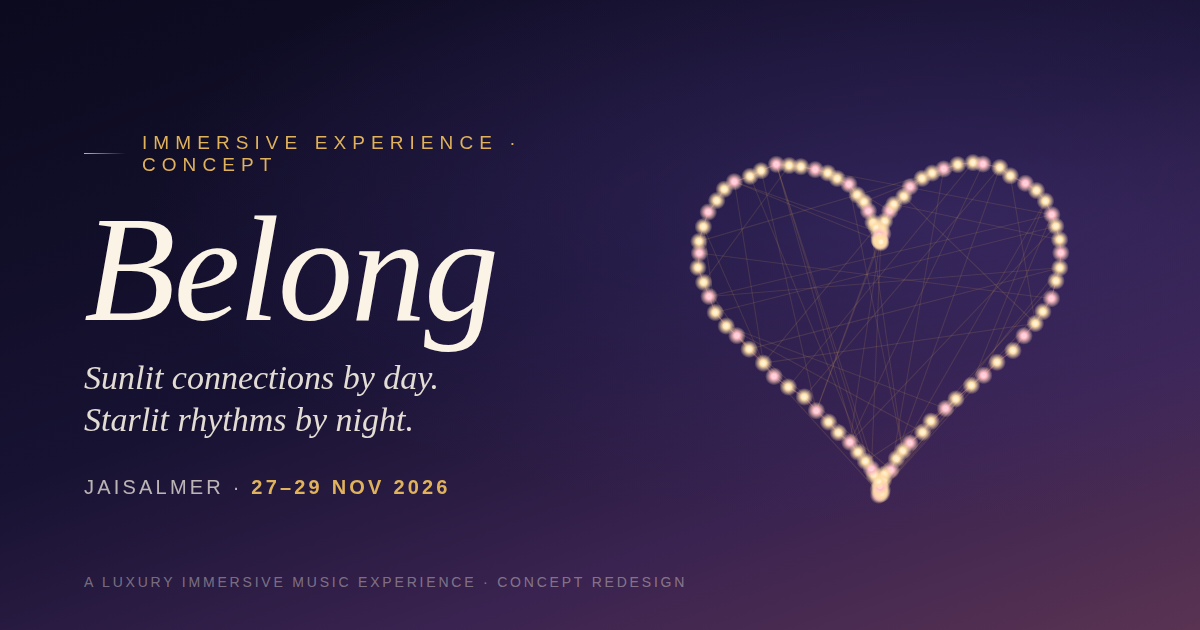
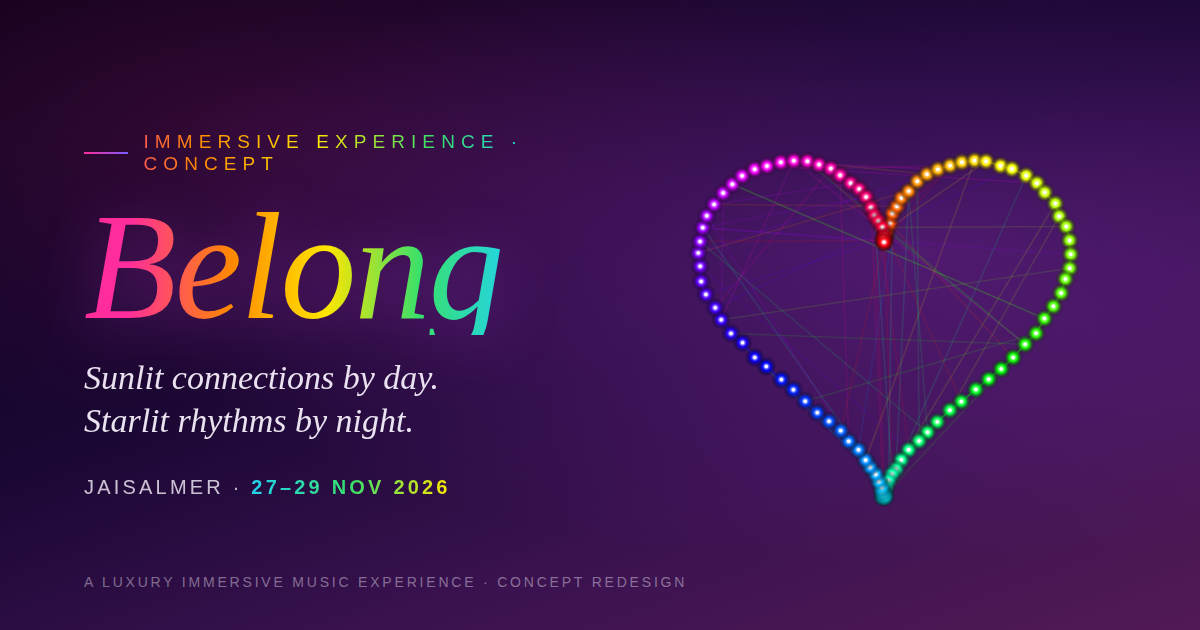
Make Rainbow the default mode and give it a matching social card
- First-time visitors now land in Rainbow (the boldest first impression);
  the palette is set before first paint so the loader matches, and the
  choice still persists per-visitor in localStorage
- theme-color defaults to the rainbow backdrop
- Regenerate the 1200x630 social share image (og.png) in the rainbow
  palette: a full-spectrum heart of souls and a rainbow "Belong" wordmark

Claude-Session: https://claude.ai/code/session_014zz6GeiYmQckbFMyAqYQUw

diff --git a/belong/og.html b/belong/og.html
@@ -8,24 +8,29 @@
   body{
     font-family:Georgia,'Times New Roman',serif;
     background:
-      radial-gradient(120% 90% at 78% 34%, rgba(70,50,120,.55), transparent 55%),
-      linear-gradient(160deg,#0b0a1e 0%,#171232 46%,#3a2350 74%,#5a3352 100%);
-    color:#faf3e6;position:relative;
+      radial-gradient(120% 90% at 76% 40%, rgba(120,40,160,.5), transparent 55%),
+      radial-gradient(90% 80% at 20% 20%, rgba(255,45,155,.14), transparent 60%),
+      linear-gradient(160deg,#0a0018 0%,#1a0733 44%,#3a1250 72%,#521a55 100%);
+    color:#fbf5ff;position:relative;
   }
   .wrap{position:absolute;inset:0;display:flex;align-items:center;padding:74px 84px}
-  .left{max-width:560px;z-index:2}
+  .left{max-width:580px;z-index:2}
   .kicker{font-family:'Jost',Arial,sans-serif;font-size:19px;letter-spacing:.32em;text-transform:uppercase;
-    color:#e0b25c;margin-bottom:26px;display:flex;align-items:center;gap:16px}
-  .kicker::before{content:"";width:44px;height:1px;background:linear-gradient(90deg,#e0b25c,transparent)}
-  .word{font-style:italic;font-weight:400;font-size:150px;line-height:.9;letter-spacing:-2px;color:#faf3e6}
-  .tag{font-size:34px;font-style:italic;color:rgba(250,243,230,.9);margin-top:20px;line-height:1.25}
+    margin-bottom:24px;display:flex;align-items:center;gap:16px;
+    background:linear-gradient(90deg,#ff2d9b,#ff8a00,#ffe600,#38e06b,#22d3ee,#7c5cff);
+    -webkit-background-clip:text;background-clip:text;color:transparent}
+  .kicker::before{content:"";width:44px;height:2px;background:linear-gradient(90deg,#ff2d9b,#7c5cff)}
+  .word{font-style:italic;font-weight:400;font-size:152px;line-height:.9;letter-spacing:-2px;
+    background:linear-gradient(92deg,#ff2d9b 8%,#ff8a00 26%,#ffe600 42%,#38e06b 58%,#22d3ee 74%,#7c5cff 92%);
+    -webkit-background-clip:text;background-clip:text;color:transparent;
+    filter:drop-shadow(0 6px 30px rgba(180,60,220,.4))}
+  .tag{font-size:34px;font-style:italic;color:rgba(251,245,255,.92);margin-top:22px;line-height:1.25}
   .meta{font-family:'Jost',Arial,sans-serif;font-size:20px;letter-spacing:.16em;text-transform:uppercase;
-    color:rgba(250,243,230,.72);margin-top:34px}
-  .meta b{color:#e0b25c;font-weight:600}
+    color:rgba(251,245,255,.78);margin-top:34px}
+  .meta b{background:linear-gradient(90deg,#22d3ee,#38e06b,#ffe600);-webkit-background-clip:text;background-clip:text;color:transparent;font-weight:700}
   .note{position:absolute;left:84px;bottom:40px;font-family:'Jost',Arial,sans-serif;font-size:14px;
-    letter-spacing:.2em;text-transform:uppercase;color:rgba(250,243,230,.4)}
+    letter-spacing:.2em;text-transform:uppercase;color:rgba(251,245,255,.42)}
   canvas{position:absolute;right:0;top:0;z-index:1}
-  ::selection{background:#e0b25c;color:#1a1508}
 </style>
 </head>
 <body>
@@ -41,28 +46,28 @@
   <div class="note">A luxury immersive music experience · concept redesign</div>
 <script>
   const ctx=document.getElementById('c').getContext('2d');
-  const cx=880, cy=300, s=11.4, N=96, pts=[];
-  for(let i=0;i<N;i++){
-    const t=i/N*Math.PI*2;
-    const hx=16*Math.pow(Math.sin(t),3);
-    const hy=13*Math.cos(t)-5*Math.cos(2*t)-2*Math.cos(3*t)-Math.cos(4*t);
-    pts.push([cx+hx*s+(Math.random()-.5)*4, cy-hy*s+(Math.random()-.5)*4]);
-  }
-  // connecting outline
-  ctx.strokeStyle='rgba(240,135,154,.38)'; ctx.lineWidth=1.1;
+  const cx=884, cy=300, s=11.6, N=104, pts=[];
+  function hsv(h){ h*=6; const i=Math.floor(h), f=h-i, v=255, p=0, q=Math.round(255*(1-f)), t=Math.round(255*f);
+    const r=[[v,t,p],[q,v,p],[p,v,t],[p,q,v],[t,p,v],[v,p,q]][i%6]; return 'rgb('+r[0]+','+r[1]+','+r[2]+')'; }
+  for(let i=0;i<N;i++){ const a=i/N*Math.PI*2;
+    const hx=16*Math.pow(Math.sin(a),3), hy=13*Math.cos(a)-5*Math.cos(2*a)-2*Math.cos(3*a)-Math.cos(4*a);
+    pts.push([cx+hx*s+(Math.random()-.5)*3, cy-hy*s+(Math.random()-.5)*3, i/N]); }
+  // rainbow outline
+  ctx.lineWidth=1.6;
   for(let i=0;i<N;i++){ const a=pts[i], b=pts[(i+1)%N];
+    ctx.strokeStyle=hsv(a[2]); ctx.globalAlpha=.55;
     ctx.beginPath(); ctx.moveTo(a[0],a[1]); ctx.lineTo(b[0],b[1]); ctx.stroke(); }
-  // a few soft interior threads
-  ctx.strokeStyle='rgba(224,178,92,.14)';
-  for(let k=0;k<60;k++){ const a=pts[(Math.random()*N)|0], b=pts[(Math.random()*N)|0];
-    ctx.beginPath(); ctx.moveTo(a[0],a[1]); ctx.lineTo(b[0],b[1]); ctx.stroke(); }
-  // glowing soul dots
-  for(let i=0;i<N;i++){ const [x,y]=pts[i];
-    const g=ctx.createRadialGradient(x,y,0,x,y,9);
-    const rose=i%3===0; g.addColorStop(0,'#fff'); g.addColorStop(.35, rose?'#ffb9c8':'#ffe0a8');
-    g.addColorStop(1,'rgba(255,220,170,0)');
-    ctx.fillStyle=g; ctx.beginPath(); ctx.arc(x,y,9,0,7); ctx.fill();
-    ctx.fillStyle=rose?'#ffd0da':'#fff3d6'; ctx.beginPath(); ctx.arc(x,y,1.8,0,7); ctx.fill(); }
+  // interior threads
+  ctx.globalAlpha=.12;
+  for(let k=0;k<70;k++){ const a=pts[(Math.random()*N)|0], b=pts[(Math.random()*N)|0];
+    ctx.strokeStyle=hsv(a[2]); ctx.beginPath(); ctx.moveTo(a[0],a[1]); ctx.lineTo(b[0],b[1]); ctx.stroke(); }
+  // glowing dots
+  ctx.globalAlpha=1;
+  for(let i=0;i<N;i++){ const [x,y,h]=pts[i], col=hsv(h);
+    const g=ctx.createRadialGradient(x,y,0,x,y,10);
+    g.addColorStop(0,'#fff'); g.addColorStop(.4,col); g.addColorStop(1,'rgba(0,0,0,0)');
+    ctx.fillStyle=g; ctx.beginPath(); ctx.arc(x,y,10,0,7); ctx.fill();
+    ctx.fillStyle='#fff'; ctx.beginPath(); ctx.arc(x,y,1.7,0,7); ctx.fill(); }
 </script>
 </body>
 </html>

diff --git a/belong/index.html b/belong/index.html
@@ -8,7 +8,7 @@
 <meta name="keywords" content="Belong Festival, immersive music festival, Jaisalmer festival, luxury desert festival, boutique music experience, wellness festival India, house music festival, immersive web experience" />
 <meta name="author" content="Concept redesign — João Caldas" />
 <meta name="robots" content="index, follow, max-image-preview:large" />
-<meta name="theme-color" content="#0b0a1e" />
+<meta name="theme-color" content="#0a0018" />
 <link rel="canonical" href="https://joaoccaldas.github.io/ai/belong/" />
 
 <!-- Open Graph -->
@@ -471,6 +471,14 @@
 </script>
 
 <script>
+/* Set the saved (or default) palette before first paint so the loader matches */
+(function(){
+  var m; try{ m=localStorage.getItem('belong-palette'); }catch(e){}
+  if(m==='playful'||m==='neon'||m==='prism') m='rainbow';
+  if(m!=='desert'&&m!=='aurora'&&m!=='rainbow') m='rainbow';   // Rainbow is the default
+  if(m==='rainbow') document.body.classList.add('rainbow');
+  else if(m==='aurora') document.body.classList.add('aurora');
+})();
 /* Resilient loader — reveals content even if the 3D module never loads */
 (function(){
   var loader=document.getElementById('loader'), bar=document.getElementById('loadbar'), lp=0;
@@ -922,7 +930,7 @@ function applyMode(mode, animate){
 }
 let savedPalette=null; try{ savedPalette=localStorage.getItem('belong-palette'); }catch(e){}
 if(savedPalette==='playful'||savedPalette==='neon'||savedPalette==='prism') savedPalette='rainbow'; // migrate old values
-applyMode(savedPalette||'desert', false);
+applyMode(savedPalette||'rainbow', false);   // Rainbow is the default first impression
 modeBtn.addEventListener('click',()=>applyMode(MODES[(MODES.indexOf(currentMode)+1)%MODES.length], true));
 
 // ambient sound — a warm generative pad, off by default (respects autoplay policy)
